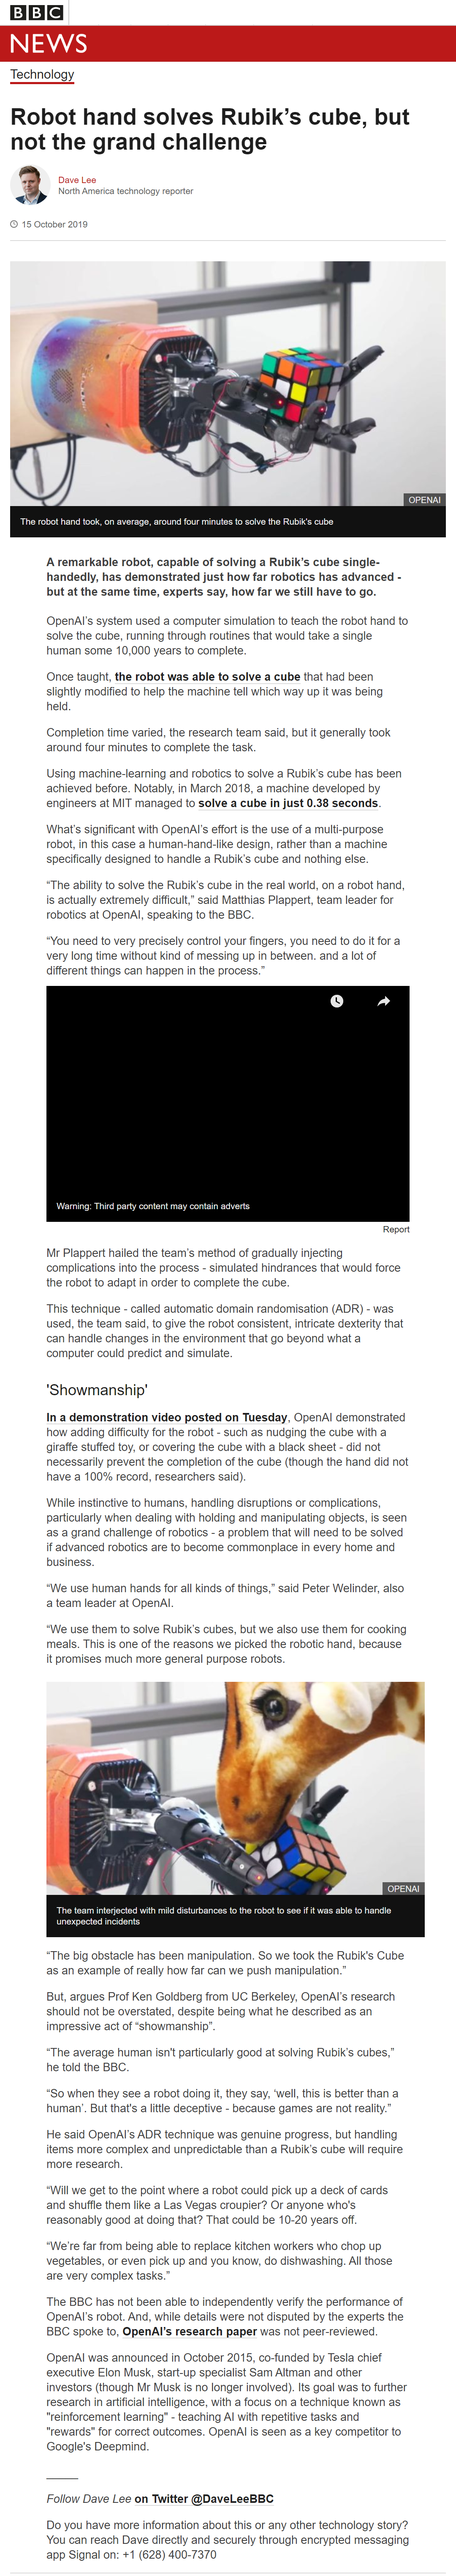
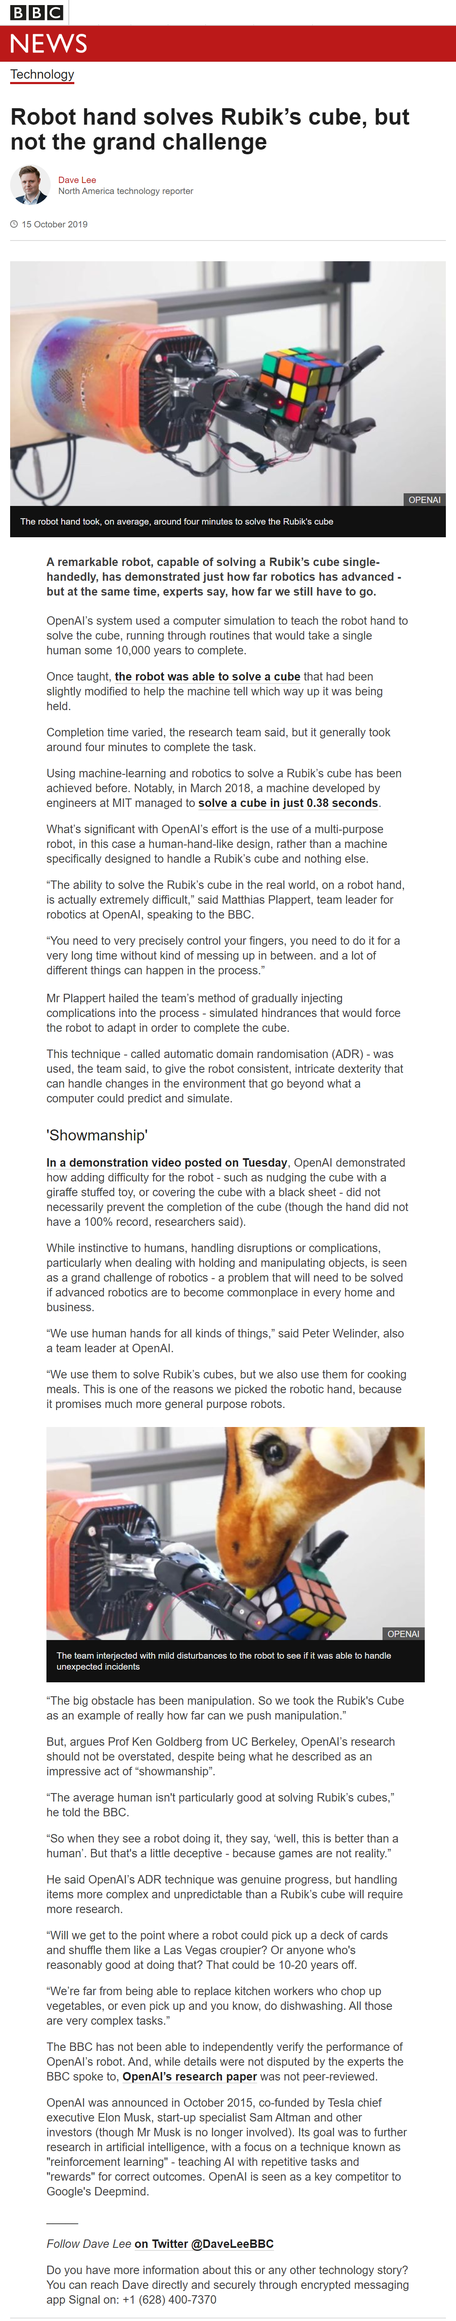
updates

diff --git a/HR/article5.html b/HR/article5.html
@@ -51,7 +51,11 @@
 </div>
 
 <div class="main">
-  <img src="/HR/article5.png">
+  <img src="/HR/article5-1.png">
+  <iframe width="400" height="500" frameborder="0" src="https://www.bbc.co.uk/news/av/embed/p07p80gm/49823945"></iframe>
+    <img src="/HR/article5-2.png">
+  
+  
 </div>
 
   
